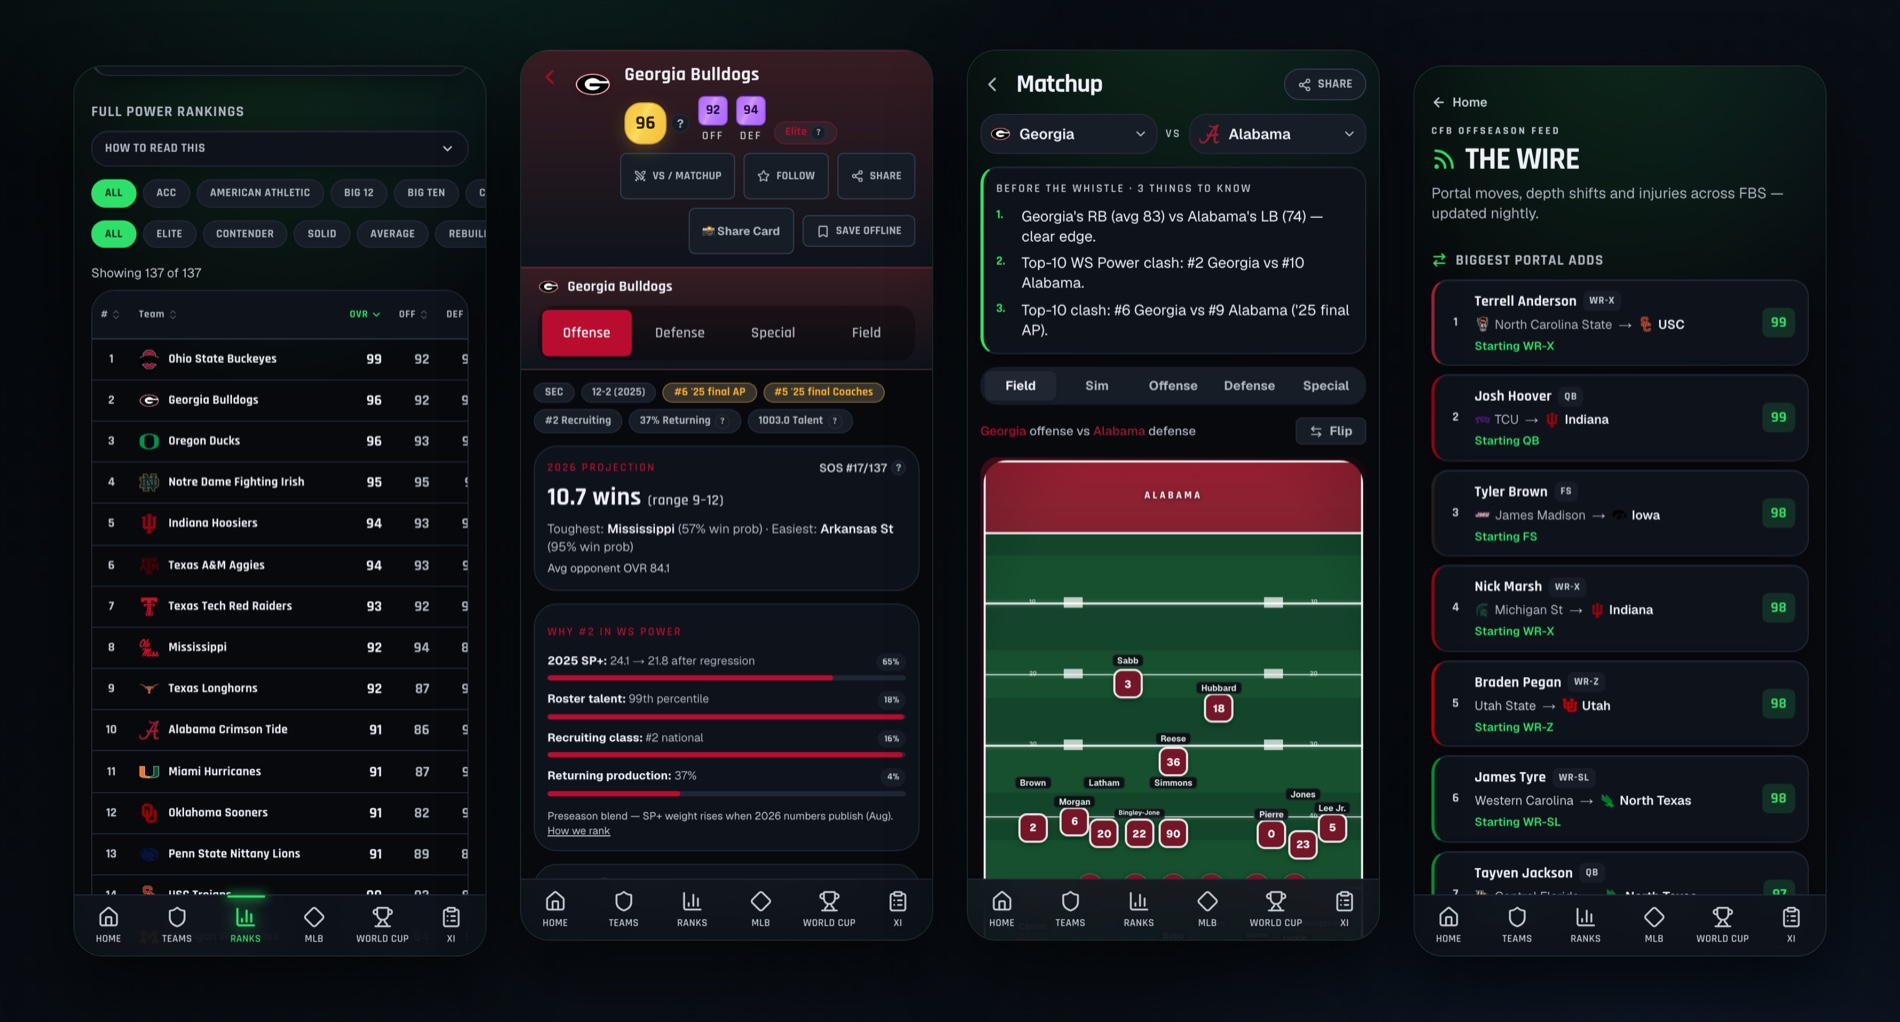
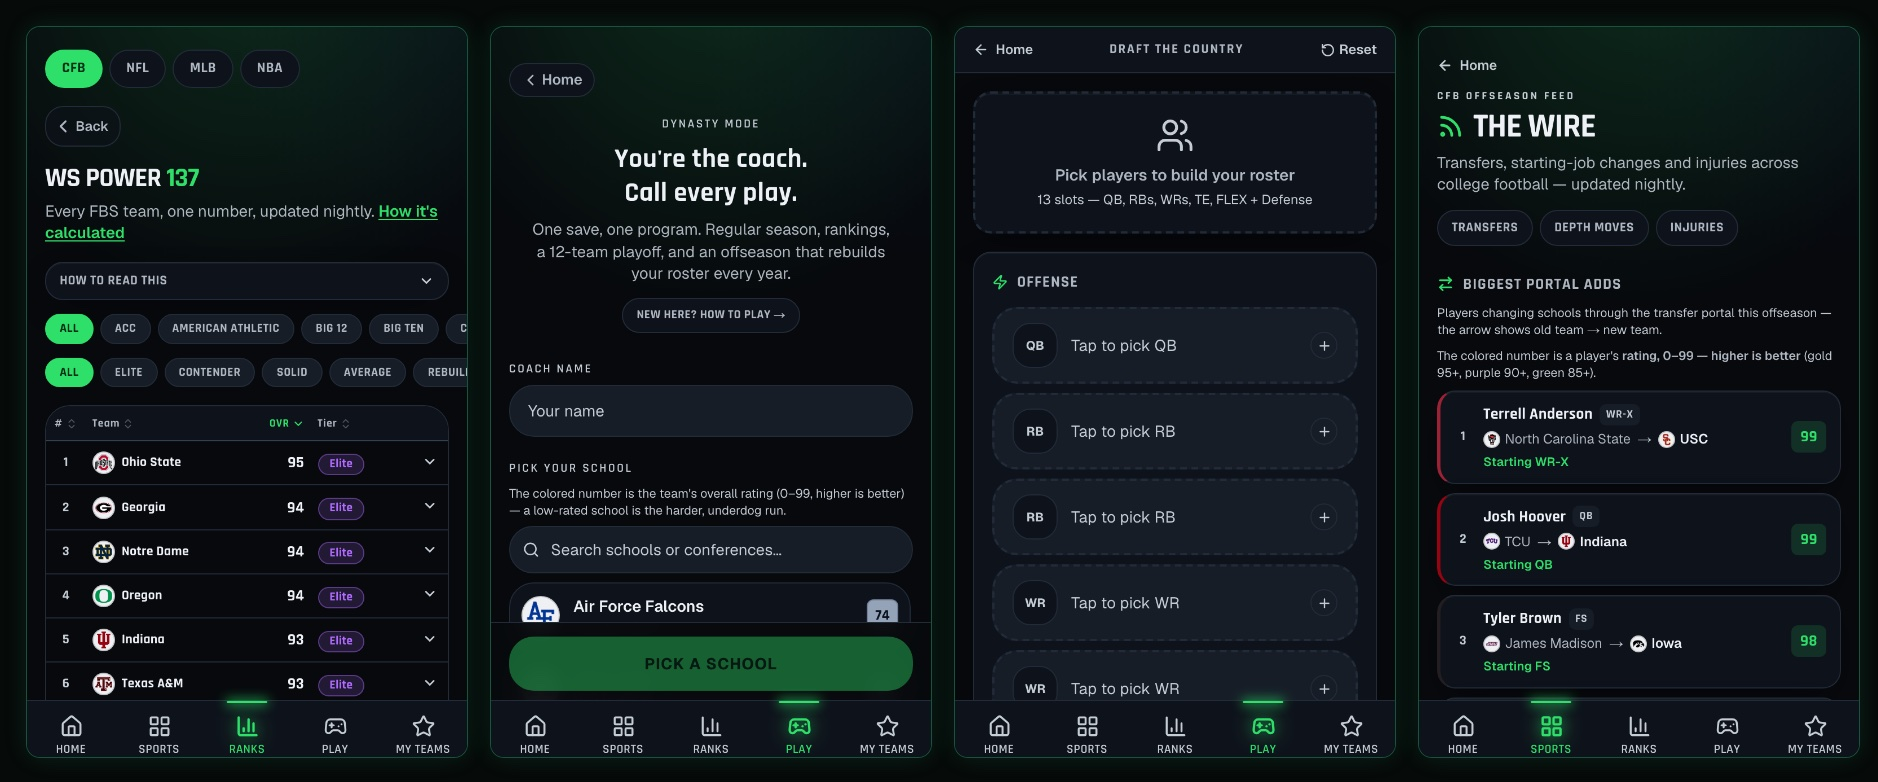
Overhaul portfolio content: full-scope rewrites for wafergraph + Who's Starting, add Our Place / Mission HQ / confidential teaser cards
Wafergraph copy now tells the dataset+API+MCP story with live-verified
numbers. Who's Starting now covers Dynasty Mode and Draft the Country
(confirmed live, not upcoming). Adds three new cards: Our Place
(description-only, no demo-data mechanism exists yet), Mission HQ
(synthetic local mock screenshots, zero real data), and an unnamed
confidential fantasy-tracker teaser. Also fixes a stale hardcoded
build count in the boot sequence.

Claude-Session: https://claude.ai/code/session_01MGD4jwaYC1hLq92iYfzntW

diff --git a/src/data/tools.ts b/src/data/tools.ts
@@ -84,16 +84,21 @@ export const tools: Tool[] = [
   {
     id: "wafergraph",
     name: "wafergraph",
-    tagline: "The entire semiconductor & AI supply chain, mapped as a living graph",
+    tagline: "The entire semiconductor & AI supply chain, mapped — and now queryable by AI",
     description:
-      "A free, neutral, always-current map of the semiconductor and AI supply chain — 565+ " +
+      "A free, neutral, always-current map of the semiconductor and AI supply chain — 615 " +
       "companies across the full value chain, from raw materials and equipment through chip " +
-      "design, foundries, and memory to the AI and data-center layer. Each is profiled with " +
-      "financials, supplier-and-customer dependencies, market share, and chokepoint exposure — " +
-      "so you can see exactly where the whole thing could break. Designed, built, and shipped end to end.",
+      "design, foundries, and memory to the AI data-center layer, linked by 3,400+ real supplier " +
+      "and customer relationships. Each company is profiled with financials, dependencies, market " +
+      "share, and chokepoint exposure, and the graph tracks M&A activity as it happens. It's not " +
+      "just a website — wafergraph also runs a live, public MCP server, so an AI assistant like " +
+      "Claude can query the whole graph directly: find single points of failure, simulate what " +
+      "happens if a company or country goes offline, trace a company's full supplier chain, or " +
+      "spot where an industry is consolidating. Dataset, API, and MCP — designed, built, and " +
+      "shipped end to end.",
     icon: "🔬",
     status: "live",
-    stack: ["Next.js", "Data pipeline", "Graph model", "Cloudflare"],
+    stack: ["Next.js", "Data pipeline", "Graph model", "MCP server", "Cloudflare"],
     liveUrl: "https://wafergraph.com",
     year: "2026",
     featured: true,
@@ -112,17 +117,65 @@ export const tools: Tool[] = [
       "transparent model that rates all 135 FBS teams with the math shown; team pages that re-skin to " +
       "your team's colors and explain exactly why they rank where they do; a Compare mode that lines " +
       "up any two rosters on a real field; and The Wire, a nightly transfer-portal and injury feed. " +
+      "The newest piece is the one I'm proudest of: Dynasty Mode, a full season-long coaching game — " +
+      "call every play, manage recruiting and the transfer portal, and run an offseason that rebuilds " +
+      "your roster year after year, all against a living 133-team league that plays out around you. " +
+      "Draft the Country turns the app's own player ratings into a season-long fantasy draft. " +
       "Offline-first PWA. Zero ads.",
     icon: "🏈",
     status: "live",
-    stack: ["Next.js", "Cloudflare Pages", "PWA / offline", "Data pipeline"],
+    stack: ["Next.js", "Cloudflare Pages", "PWA / offline", "Season simulation", "Data pipeline"],
     liveUrl: "https://whosstarting.com",
     year: "2026",
     featured: true,
     rarity: "epic",
     image: "/builds/whosstarting.jpg",
     imageAlt:
-      "Four screens of Who's Starting — the WS Power 135 rankings table, a team page with dynasty team-color theming and the 'Why This Rating' transparency panel, the Compare field-view matchup engine (Georgia vs Alabama), and The Wire transfer-portal feed",
+      "Four screens of Who's Starting — the WS Power 135-team rankings table, Dynasty Mode's coaching-game intro ('You're the coach, call every play'), Draft the Country's fantasy roster builder, and The Wire's nightly transfer-portal feed",
+  },
+  {
+    id: "our-place",
+    name: "Our Place",
+    tagline: "A private world for two, built as a birthday gift",
+    description:
+      "A private, just-for-us app I built for my girlfriend as a birthday gift, for staying close " +
+      "across a long distance. Real-time chat and voice notes, a YouTube-synced Listening Room so " +
+      "we can watch or listen together from two cities, a photo keepsake wall, a celestial " +
+      "milestone timeline, open-when letters that unlock on the recipient's terms, and a trip " +
+      "tracker with its own constellation map for places we've been together. A quiet presence " +
+      "indicator and a countdown to the next visit round it out. Under the hood: Supabase " +
+      "real-time sync and row-level security scope every record to the two of us, and nothing " +
+      "here is public — this one's just ours.",
+    icon: "🌌",
+    status: "live",
+    stack: ["React", "Supabase", "Realtime sync", "Cloudflare Pages"],
+    year: "2025 – 2026",
+    rarity: "epic",
+  },
+  {
+    id: "mission-hq",
+    name: "Mission HQ",
+    tagline: "A private mission-control system for running my own work like an operator",
+    description:
+      "A personal command center I built and use daily to run everything else here — a single " +
+      "password-gated dashboard that keeps me systemized instead of scattered across tabs. A live " +
+      "traffic panel shows real visitor sessions across my sites — where they came from, the pages " +
+      "they moved through, roughly where in the world they are — powered by a first-party tracker " +
+      "I built rather than a third-party analytics vendor. A second panel tracks my own AI usage " +
+      "like a P&L: spend by day, so the cost of building with AI agents is a number I actually " +
+      "watch, not a surprise. Everything else I ship rolls up here: project status, deploy health, " +
+      "a running log. It's the control room behind the rest of this page.",
+    icon: "🛰",
+    status: "live",
+    stack: ["Cloudflare Workers", "D1", "Real-time analytics", "AI agents", "Automation"],
+    year: "2026",
+    featured: true,
+    rarity: "epic",
+    image: "/builds/mission-hq.jpg",
+    imageAlt:
+      "Two panels of Mission HQ shown with sanitized sample data — a visitor-traffic dashboard with session origins and page trails, and a daily AI token-spend tracker",
+    imageCaption:
+      "Screens shown use sanitized sample data — placeholder sessions and figures for illustration only, not real visitors, spend, or personal content.",
   },
   {
     id: "the-league",
@@ -136,6 +189,21 @@ export const tools: Tool[] = [
     status: "archived",
     stack: ["Curriculum design", "Platform", "Community", "Content"],
     year: "2021 – 2023",
+    rarity: "rare",
+  },
+  {
+    id: "classified-fantasy-tracker",
+    name: "[ CLASSIFIED — In Development ]",
+    tagline: "A real-time, game-tracking fantasy sports app — not ready to name yet",
+    description:
+      "Currently in development: a proprietary, real-time tracker for a competitive esports scene, " +
+      "paired with its own fantasy layer — live event scoring, power rankings built from a custom " +
+      "formula (not just raw stats), and a free-to-play fantasy draft on top of it. Confidential " +
+      "until it's ready to show. More soon.",
+    icon: "🔒",
+    status: "prototype",
+    stack: ["Cloudflare Workers", "D1", "Real-time data", "Automation"],
+    year: "2026",
     rarity: "rare",
   },
   // ── Add new tools below. Copy the shape above. ──

diff --git a/src/components/BootSequence.tsx b/src/components/BootSequence.tsx
@@ -1,13 +1,14 @@
 "use client";
 
 import { useEffect, useState } from "react";
+import { tools } from "@/data/tools";
 
 const LINES = (name: string) => [
   "> initializing operator terminal v2.7 …",
   "> establishing secure uplink … OK",
   `> loading profile: ${name.toUpperCase().replace(/\s+/g, "_")} …`,
   "> decrypting credentials … OK",
-  "> mounting builds [3] … OK",
+  `> mounting builds [${tools.length}] … OK`,
   "> ACCESS GRANTED",
 ];
 
